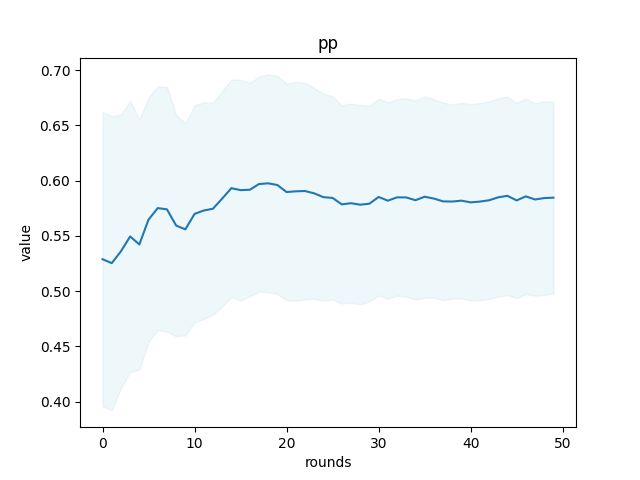
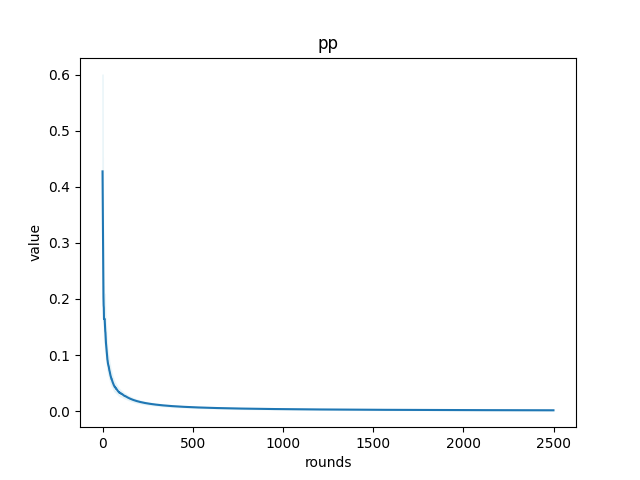
fix weight update bug

diff --git a/simulator.py b/simulator.py
@@ -122,7 +122,7 @@ def calculation_and_plotting(rep, rounds, reward_dataset, regret_dataset,
     regret_over_t_std_err = np.std(
         regret_over_t_dataset, axis=0) / np.sqrt(rep)
     # print(regret_over_t_dataset)
-    print(regret_over_t_std_err)
+    # print(regret_over_t_std_err)
 
     # plot the data
     # input: (dataset, dataset_name, xlabel, ylabel, title, plot_filename)
@@ -163,7 +163,7 @@ def plot_data_with_error_bar(rounds, algo_name, dataset, std_err_dataset, xlabel
     plt.close()
 
 
-def simulation(rounds=int(50)):
+def simulation(rounds=int(2500)):
     ucb_reward_dataset = []
     ucb_regret_dataset = []
     ucb_reward_over_t = []
@@ -261,7 +261,7 @@ def simulation(rounds=int(50)):
         max_val = float('-inf')
         for calendar in possible_calendars:
             feature_vector = featureListGenerator(calendar, [number_of_slots])
-            val = np.dot(w, feature_vector)
+            val = np.dot(w.T, feature_vector)
             if val > max_val:
                 max_val = val
                 best_action = calendar
@@ -293,7 +293,7 @@ def simulation(rounds=int(50)):
         phi_feedback = np.array(featureListGenerator(feedback, [number_of_slots]))
 
         #Update weights
-        w += phi_best_action - phi_feedback
+        w +=  phi_feedback - phi_best_action 
 
         pp_reward_dataset.append(pp_total_reward)
         pp_regret_dataset.append(pp_total_regret)
